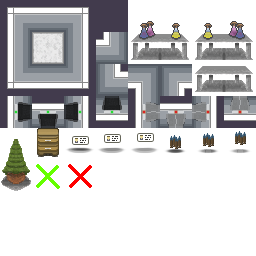
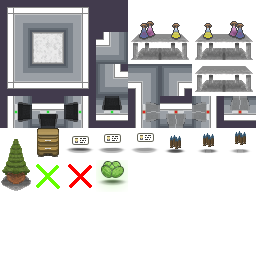
Added cabbage to tilemap

Changed region(s): [[0.375, 0.625, 0.5, 0.75]]

diff --git a/level.py b/level.py
@@ -29,7 +29,7 @@ class Room(pygame.sprite.Sprite):
 
 
 class Map():
-    def __init__(self, level, file='maps/playground.tmx'):
+    def __init__(self, level, file='maps/Map2.tmx'):
         self.level = level
         self.soft_tiles = pygame.sprite.Group()     # tiles that do not collide with the player
         self.hard_tiles = pygame.sprite.Group()     # tiles that collide with the player
@@ -41,7 +41,7 @@ class Map():
         self.hard_tiles.update(camera)
         self.hard_tiles.draw(screen)
 
-    def load_level(self, file='maps/playground.tmx'):
+    def load_level(self, file='maps/Map2.tmx'):
         tmx_data = load_pygame(file)
         for layer in tmx_data.visible_layers:
             if hasattr(layer, 'data'):
